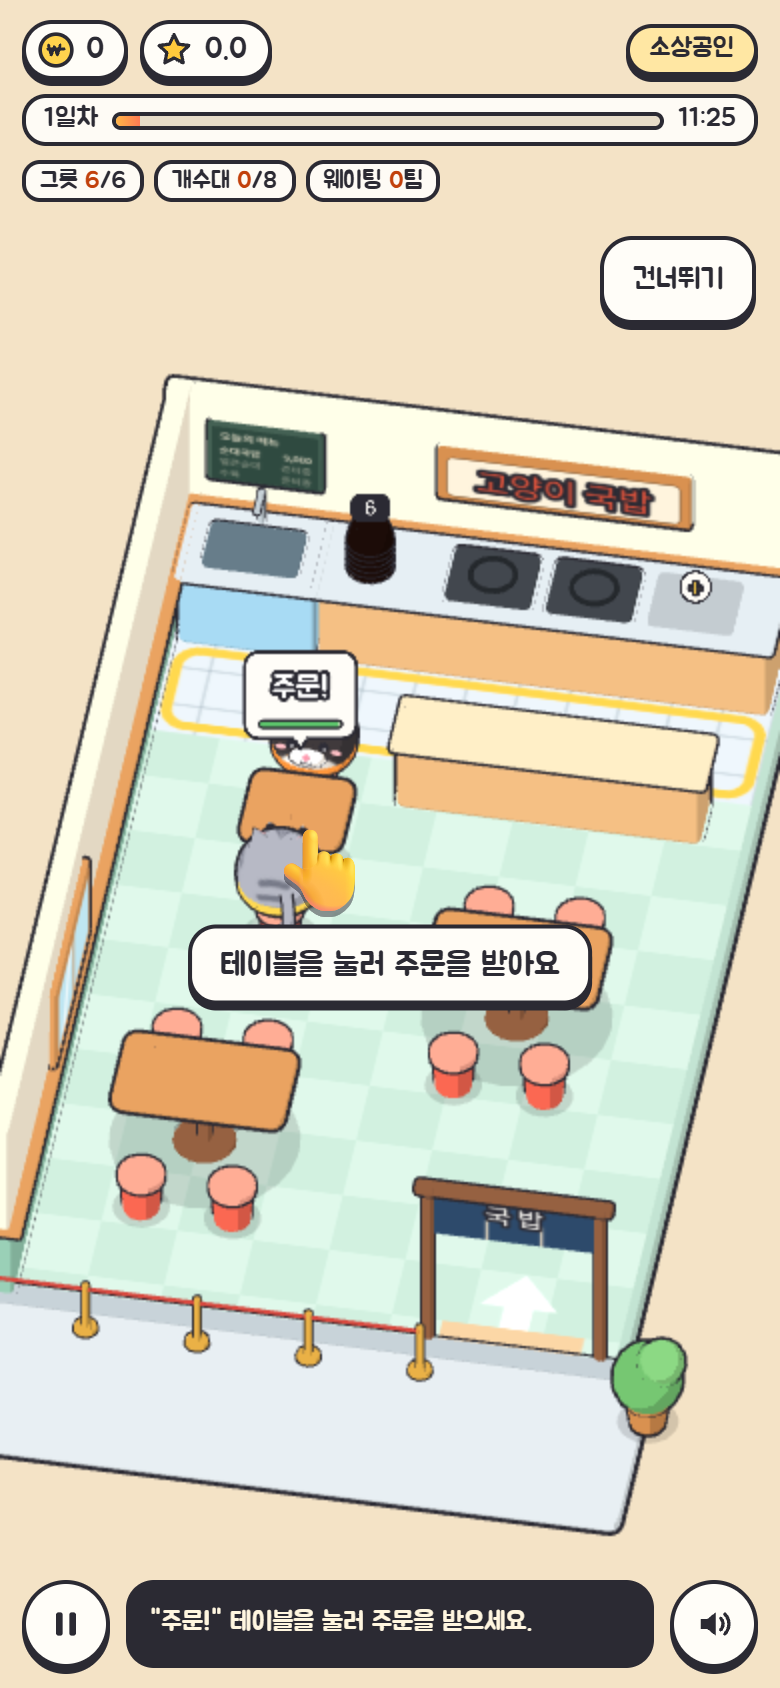
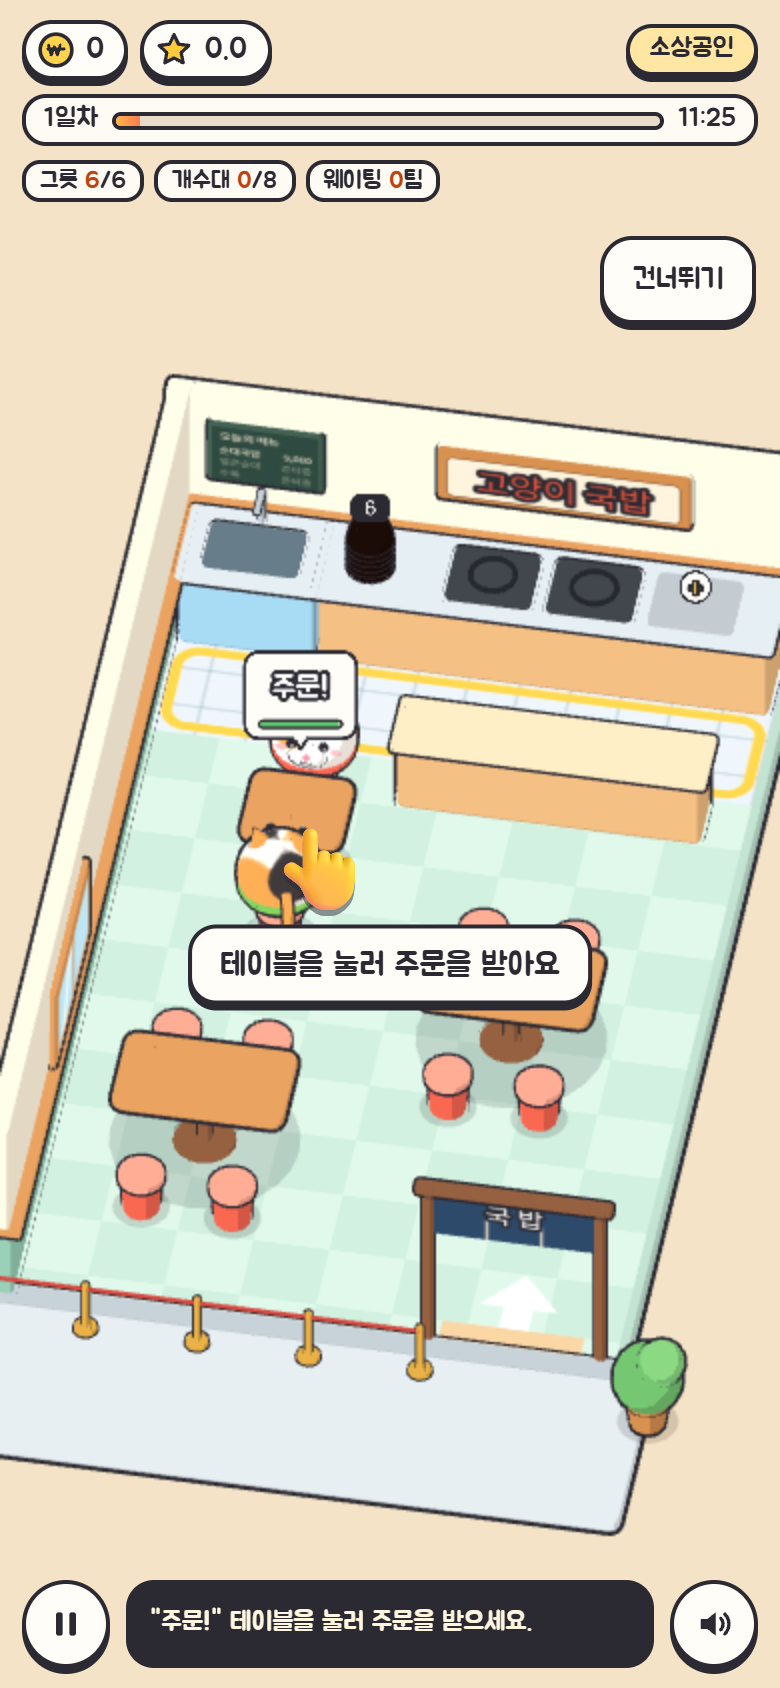
test: 사람 흉내 밸런스 봇(--human)과 조사 기록 — 사람 기준 미슐랭 약 28일

Changed region(s): [[0.5231, 0.5237, 0.8, 0.6777], [0.3077, 0.4929, 0.4, 0.5545], [0.3385, 0.4313, 0.4615, 0.4621]]

diff --git a/tools/why-probe.ts b/tools/why-probe.ts
@@ -1,0 +1,38 @@
+// 같은 19일차 가게에서 봇의 행동을 하나씩 빼 보면 화난 손님·별점이 어떻게 되나
+import { SIM_DT } from '../src/data/balance';
+import { BOT } from '../src/data/bot';
+import { PlayerBot } from '../src/sim/bot';
+import { botShop } from '../src/sim/botPlan';
+import { finishSettle, startDay, step } from '../src/sim/sim';
+import { newGame } from '../src/sim/state';
+import type { GameState, SimEvent } from '../src/sim/types';
+
+function upTo(day: number, seed: number): GameState {
+  const s = newGame(seed); const bot = new PlayerBot(1.3); const cur = { i: 0 }; const ev: SimEvent[] = [];
+  for (let d = 1; d < day; d++) { startDay(s); while (s.phase !== 'settle') { bot.tick(s, SIM_DT, ev); step(s, ev); ev.length = 0; } finishSettle(s); botShop(s, cur); s.phase = 'prep'; }
+  return s;
+}
+function play(base: GameState, name: string, tweak: (s: GameState, b: PlayerBot) => void): void {
+  let ang = 0, angT = 0, rev = 0, n = 0, miss = 0, pServe = 0, sServe = 0;
+  for (let k = 0; k < 4; k++) {
+    const s = JSON.parse(JSON.stringify(base)) as GameState; s.rng = 777 + k;
+    const b = new PlayerBot(1.3); tweak(s, b);
+    startDay(s); const ev: SimEvent[] = [];
+    while (s.phase !== 'settle') { b.tick(s, SIM_DT, ev); step(s, ev); for (const e of ev) if (e.k === 'serve') { if (e.by < 0) pServe++; else sServe++; } ev.length = 0; }
+    const r = s.lastReport!; ang += r.angry; angT += r.angryTeams; rev += r.reviewAvg; n++; miss += r.missed;
+  }
+  console.log(`${name.padEnd(34)} 화난 손님 ${(ang / n).toFixed(1)}명(${(angT / n).toFixed(1)}팀)/일 · 하루 리뷰 평균 ${(rev / n).toFixed(2)} · 서빙 플레이어:서버 ${pServe}:${sServe} · 놓친 손님 ${(miss / n).toFixed(0)}`);
+}
+const base = upTo(19, 1000);
+console.log('19일차 가게:', `단계${base.stage + 1} 화구${base.burners} 직원 ${base.staff.map((m) => m.role + m.grade).join(',')} 키오스크 ${base.kiosk}`);
+const B = BOT as unknown as Record<string, number>;
+const keep = { u: B.urgentRatio, w: B.passWaitSec };
+play(base, '봇 그대로', () => {});
+play(base, '급한 테이블 직접 서빙 안 함', () => { B.urgentRatio = 9; B.passWaitSec = 99; });
+B.urgentRatio = keep.u; B.passWaitSec = keep.w;
+play(base, '보이는 국밥 전부 직접 서빙', () => { B.urgentRatio = 0; B.passWaitSec = 0; });
+B.urgentRatio = keep.u; B.passWaitSec = keep.w;
+play(base, '키오스크 없음', (s) => { s.kiosk = false; });
+play(base, '반응 1.0초(사람이 늦게 봄)', (_s, b) => { b.reaction = 1.0; });
+play(base, '탭 0.9/초', (_s, b) => { b.tapsPerSec = 0.9; });
+play(base, '주방장 1명뿐', (s) => { const cs = s.staff.filter((m) => m.role === 'chef'); s.staff = s.staff.filter((m) => m.role !== 'chef' || m === cs[0]); });

diff --git a/tools/why-mid.ts b/tools/why-mid.ts
@@ -1,0 +1,36 @@
+// 사람이 흔히 가는 중반 구성에서 손님 몰릴 때 화난 손님이 생기는가
+import { SIM_DT } from '../src/data/balance';
+import { PlayerBot } from '../src/sim/bot';
+import { hire } from '../src/sim/catalog';
+import { startDay, step } from '../src/sim/sim';
+import { newGame } from '../src/sim/state';
+import type { GameState, SimEvent } from '../src/sim/types';
+import type { PromoId } from '../src/data/promos';
+
+function run(name: string, setup: (s: GameState) => void, tap = 1.3): void {
+  let ang = 0, angT = 0, rev = 0, sold = 0, chefCook = 0, playerCook = 0, waitOrder = 0, waitFood = 0;
+  const N = 4;
+  for (let k = 0; k < N; k++) {
+    const s = newGame(50 + k); s.tutorial = false; setup(s); startDay(s);
+    const b = new PlayerBot(tap); const ev: SimEvent[] = [];
+    while (s.phase !== 'settle') {
+      b.tick(s, SIM_DT, ev); step(s, ev);
+      for (const e of ev) if (e.k === 'cook') { if (e.by < 0) playerCook++; else chefCook++; }
+      ev.length = 0;
+      for (const t of s.dayState!.teams) if (t.state === 'seated') { if (!t.orderTaken) waitOrder += SIM_DT; else if (t.orders.some((o) => !o.served)) waitFood += SIM_DT; }
+    }
+    const r = s.lastReport!; ang += r.angry; angT += r.angryTeams; rev += r.reviewAvg; sold += r.sold;
+  }
+  console.log(`${name.padEnd(36)} 화난 ${(angT / N).toFixed(1)}팀(${(ang / N).toFixed(1)}명)/일 · 리뷰 ${(rev / N).toFixed(2)} · 판매 ${(sold / N).toFixed(0)} · 조리 주방장:플레이어 ${chefCook}:${playerCook} · 주문 대기 ${(waitOrder / N).toFixed(0)}s · 음식 대기 ${(waitFood / N).toFixed(0)}s`);
+}
+const mid = (promo: PromoId[] = [], kiosk = false, chefs = 1, burners = 4, sg = 1) => (s: GameState) => {
+  s.stage = 1; s.burners = burners; s.bowls = 16; s.sinkLevel = 1; s.kiosk = kiosk; s.menus.spicy = true; s.tier = 2; s.taste = 2;
+  hire(s, 'server', sg as 0); hire(s, 'server', sg as 0); for (let i = 0; i < chefs; i++) hire(s, 'chef', 1); hire(s, 'dish', 0);
+  s.reviews = Array.from({ length: 50 }, () => 2.8);
+  s.promos = promo.map((id) => ({ id, days: 2 }));
+};
+run('중반: 서버2·주방장1·화구4·키오스크X', mid());
+run('  + 구글·유튜브 광고(손님 몰림)', mid(['google', 'youtube']));
+run('  + 광고 + 키오스크', mid(['google', 'youtube'], true));
+run('  + 광고 + 키오스크 + 주방장2', mid(['google', 'youtube'], true, 2));
+run('  + 광고, 서버 견습(1그릇씩)', mid(['google', 'youtube'], false, 1, 4, 0));

diff --git a/src/sim/bot.ts b/src/sim/bot.ts
@@ -12,9 +12,21 @@ export class PlayerBot {
   private seen = new Map<string, number>();
   private alive = new Set<string>();
   actions = 0;
+  /** 사람 흉내 (밸런스 검증용): 가끔 딴 데 보기(lapse), 가장 급한 일을 놓치기(miss) */
+  human: { lapseEvery: [number, number]; lapseSec: [number, number]; miss: number; seed: number } | null = null;
+  private lapseAt = -1;
+  private lapseEnd = -1;
+  private ignore = new Map<string, number>();
   constructor(public tapsPerSec: number, public reaction: number = BOT.reactionSec) {}
 
+  private rnd(): number {
+    const h = this.human!;
+    h.seed = (h.seed * 1664525 + 1013904223) >>> 0;
+    return h.seed / 4294967296;
+  }
+
   private ready(key: string, now: number): boolean {
+    if ((this.ignore.get(key) ?? -1) > now) return false;
     this.alive.add(key);
     const t = this.seen.get(key);
     if (t === undefined) { this.seen.set(key, now); return false; }
@@ -24,11 +36,22 @@ export class PlayerBot {
   /** 한 틱. 행동했으면 true */
   tick(s: GameState, dt: number, ev: SimEvent[]): boolean {
     const ds = s.dayState;
-    if (!ds || (s.phase !== 'open' && s.phase !== 'overtime')) { this.seen.clear(); return false; }
+    if (!ds || (s.phase !== 'open' && s.phase !== 'overtime')) { this.seen.clear(); this.ignore.clear(); this.lapseAt = -1; this.lapseEnd = -1; return false; }
     this.budget = Math.min(BOT.menuPickCost, this.budget + dt * this.tapsPerSec);
     const now = ds.t;
     this.alive.clear();
-    const act = this.pick(s, now);
+    if (this.human) {
+      const h = this.human;
+      if (this.lapseAt < 0) this.lapseAt = now + h.lapseEvery[0] + this.rnd() * (h.lapseEvery[1] - h.lapseEvery[0]);
+      if (now >= this.lapseAt) { this.lapseEnd = now + h.lapseSec[0] + this.rnd() * (h.lapseSec[1] - h.lapseSec[0]); this.lapseAt = this.lapseEnd + h.lapseEvery[0] + this.rnd() * (h.lapseEvery[1] - h.lapseEvery[0]); }
+      if (now < this.lapseEnd) return false;
+    }
+    let act = this.pick(s, now);
+    if (act && this.human && this.budget >= act.cost && this.rnd() < this.human.miss) {
+      // 가장 급한 일을 못 보고 다른 일을 한다 (0.5~1.5초 동안 그 일을 못 봄)
+      this.ignore.set(act.key, now + 0.5 + this.rnd());
+      act = this.pick(s, now);
+    }
     for (const k of [...this.seen.keys()]) if (!this.alive.has(k)) this.seen.delete(k);
     if (!act || this.budget < act.cost) return false;
     this.budget -= act.cost;

diff --git a/tools/sim.ts b/tools/sim.ts
@@ -17,6 +17,7 @@ const SEEDS = Number(arg('seeds', '5'));
 const TAPS = arg('tap', '1.3').split(',').map(Number);
 const REPORT = arg('report', '');
 const SEED0 = Number(arg('seed0', '1000'));
+const HUMAN = process.argv.includes('--human');
 
 export interface RunResult { seed: number; tap: number; reached: Record<string, number>; days: number; minutes: number; michelin: boolean; rows: Array<DayReport & { buys: number; minutes: number; money: number; rating: number; tier: number; bought: string[] }> }
 
@@ -27,9 +28,10 @@ function uiSeconds(r: DayReport, overtime: number): number {
   return DAY.countdownSec + overtime + receipt + TIMING.screenSec * 2 + tierUp;
 }
 
-export function runGame(seed: number, tap: number, days = DAYS): RunResult {
+export function runGame(seed: number, tap: number, days = DAYS, human = HUMAN): RunResult {
   const s = newGame(seed);
-  const bot = new PlayerBot(tap);
+  const bot = new PlayerBot(tap, human ? 0.7 : undefined);
+  if (human) bot.human = { lapseEvery: [8, 15], lapseSec: [1.5, 3], miss: 0.25, seed: seed * 7 + 1 };
   const cur: PlanCursor = { i: 0 };
   const ev: SimEvent[] = [];
   let minutes = 0;

diff --git a/docs/BALANCE_LOG.md b/docs/BALANCE_LOG.md
@@ -102,3 +102,17 @@
 
 ### 2026-11-10 (4) — T2 위치·서버 전용 통로 뒤 재확인 (수치 변경 없음)
 20시드: 0.9탭 27일 73.7분 / 1.3탭 **22일 59.9분** / 2.0탭 21일 57.2분. 막힘이 줄어 처리량이 늘었지만 목표 범위 안이라 비용은 그대로.
+
+## 2026-11-10 (5) — "봇은 미슐랭을 찍는데 사람은 화난 손님이 생긴다" 조사 (수치 변경 없음)
+- 봇의 후반 가게(장인 주방장 3·장인 서버 2·키오스크·화구 5)에서는 봇 행동을 하나씩 빼도(급한 테이블 직접 서빙 X, 키오스크 X, 반응 1초, 탭 0.9) 화난 손님이 하루 0~0.5명. 중반 구성(서버 2·주방장 1·광고로 손님 몰림)에서도 0~0.5명 (`tools/why-probe.ts`, `tools/why-mid.ts`).
+- 원인: 검증 봇이 사람보다 훨씬 정확하다. 0.4초 만에 반응하고, 한 번도 딴 데를 안 보고, 매 순간 "가장 급한 일"을 정확히 고른다.
+- 사람 흉내 봇(`npm run sim -- --human`: 8~15초마다 1.5~3초 딴 데 봄 → 집중 약 80%, 반응 0.7초, 25% 확률로 가장 급한 일을 놓침):
+
+| 봇 | 미슐랭(시드별) | 중앙값 | 플레이 시간 |
+|---|---|---|---|
+| 1.3탭 사람 흉내 (10시드) | 32/29/25/30/28/27/28/26/34/27 | 28일 | 약 76분 |
+| 2.0탭 사람 흉내 (5시드) | 27/25/28/25/24 | 25일 | 약 68분 |
+| 0.9탭 사람 흉내 (5시드) | 미달/39/미달/35/38 (45일 안) | 38일+ | 100분+ |
+
+- 화난 손님(하루 평균, 1.3탭 3시드): 완벽 봇 초반 0.3 / 중반 0.0 / 후반 0.1명 vs 사람 흉내 초반 **8.4** / 중반 0.5 / 후반 0.6명. 하루 리뷰 평균 후반 4.15 vs 3.52.
+- 결론: "탭 1.3/초 = 평균 유저" 가정이 낙관적이었다. 실제 사람 기준으로는 1시간 미슐랭이 안 나온다. 사람 흉내 봇을 기준으로 다시 맞출지는 사용자 결정 대기.
